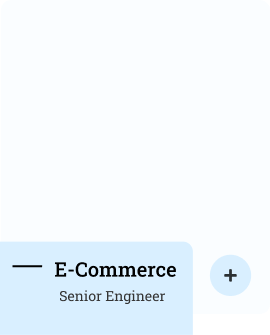
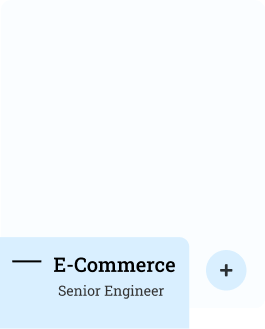
service part done

Changed region(s): [[0.2113, 0.7599, 0.6642, 0.9119]]

diff --git a/src/pages/Home.jsx b/src/pages/Home.jsx
@@ -7,7 +7,9 @@ import aboutImage from '../assets/about.png'
 import Flex from '../components/Flex'
 import Education from '../components/icons/Education'
 import {TiStarburst} from 'react-icons/ti'
-import {FaYoutube,FaFacebookF,FaInstagram,FaTwitter,FaLinkedinIn} from 'react-icons/fa'
+import {FaYoutube,FaFacebookF,FaInstagram,FaTwitter,FaLinkedinIn,FaReact,FaPlus} from 'react-icons/fa'
+import {AiOutlineHtml5} from 'react-icons/ai'
+import {DiJavascript1 } from 'react-icons/di'
 
 import project1 from '../assets/project1.png'
 import project2 from '../assets/project2.png'
@@ -16,7 +18,7 @@ import project4 from '../assets/project4.png'
 import project5 from '../assets/project5.png'
 import service1 from '../assets/service1.png'
 import contact1 from '../assets/contact1.png'
-import footer from '../assets/footerLogo.png'
+
 import List from '../components/List'
 
 export default function Home() {
@@ -25,9 +27,9 @@ export default function Home() {
    <Section>
     <div className='bg-banner h-screen bg-no-repeat bg-center bg-cover'>
       <Container>
-        <h2 className='text-text50 text-black font-pop font-semibold pt-32 pb-4 text-center'>HEY, I'M MOHAMMAD SAJIB KHAN</h2>
-        <p className='text-center mx-auto w-w725  text-lg text-black font-robo font-normal '>A Frontend focused Web Developer building the Frontend of Websites and Web Applications that leads to the success of the overall product</p>
-        <Button text="Download CV" className='flex mx-auto mt-8'/>
+        <h2 className='text-text50 text-black font-pop font-semibold pt-36 pb-4 text-center'>HEY, I'M MOHAMMAD SAJIB KHAN</h2>
+        <p className='text-center mx-auto w-w725 leading-8  text-lg text-black font-robo font-normal '>A Frontend focused Web Developer building the Frontend of Websites and Web Applications that leads to the success of the overall product</p>
+        <Button text="View Project " className='flex mx-auto mt-8'/>
       </Container>
     </div>
    </Section>
@@ -46,14 +48,14 @@ export default function Home() {
 
         <div className='w-1/2'>
         <Flex className=' justify-between'>
-        <div className='bg-four rounded-lg w-[270px] h-[150px]'>
+        <div className='bg-four rounded-lg drop-shadow-lg w-[270px] h-[150px]'>
         <Education  className="flex justify-center mx-auto pt-4 w-[20px] h-[20px]"/>
         <h3 className='text-black text-xl font-robo font-medium text-center pt-6'>Experience</h3>
         <p className='text-five text-base font-robo font-normal text-center pt-2'>2 + years</p>
         <p className='text-five text-base font-robo font-normal text-center '>Frontend Development</p>
        </div>
 
-        <div className='bg-four rounded-lg w-[270px] h-[150px]'>
+        <div className='bg-four rounded-lg drop-shadow-lg w-[270px] h-[150px]'>
         <Education  className="flex justify-center mx-auto pt-4 w-[20px] h-[20px]"/>
         <h3 className='text-black text-xl font-robo font-medium text-center pt-6'>Education</h3>
         <p className='text-five text-base font-robo font-normal text-center pt-2'>B.S.c  Bachelors Degree</p>
@@ -61,7 +63,7 @@ export default function Home() {
        </div>
         </Flex>
         <p className='text-black text-lg font-normal font-robo pt-10 pb-6'>I'm a Frontend Web Developer building the Front-end of Websites and Web Applications that leads to the success of the overall product. Check out some of my work in the Projects section.</p>
-        <Button text="Contact" className='px-12'/>
+        <Button text="Download CV" className='px-12'/>
         </div>
         
       </Flex>
@@ -78,7 +80,7 @@ export default function Home() {
       <p className='text-black text-lg font-normal font-robo text-center'>My technical level</p>
 
       <Flex className='justify-evenly'>
-        <div className='w-[430px] h-[280px] rounded-xl bg-four mt-16'>
+        <div className='w-[430px] h-[280px] rounded-xl drop-shadow-2xl bg-four mt-16'>
           <h4 className='pt-8 pb-8 text-center text-xl text-black font-robo font-normal'>Frontend developer</h4>
 
           <Flex className='flex-wrap '>
@@ -132,7 +134,7 @@ export default function Home() {
           </Flex>
 
         </div>
-        <div className='w-[430px] h-[280px] rounded-xl bg-four mt-16'>
+        <div className='w-[430px] h-[280px] rounded-xl drop-shadow-2xl bg-four mt-16'>
           <h4 className='pt-8 pb-8 text-center text-xl text-black font-robo font-normal'>Backend developer</h4>
 
           <Flex className='flex-wrap '>
@@ -227,19 +229,112 @@ export default function Home() {
    
 
 
-   <Section className='bg-third pt-14'>
+   <Section className='bg-third pt-14 pb-10'>
     <Container>
       <h2 className='text-text50 text-black font-medium font-robo text-center pb-3'>Services</h2>
-      <p className='w-w833 text-center mx-auto text-lg text-black font-robo font-normal pb-24'>Our consultants have years of experience on the in success. Through the provision of our services. Find the service we provide</p>
+      <p className='w-w833 text-center mx-auto text-lg text-black font-robo font-normal pb-20'>Our consultants have years of experience on the in success. Through the provision of our services. Find the service we provide</p>
       <Flex className='justify-between'>
-        <Image src={service1}/>
-        <Image src={service1}/>
-        <Image src={service1}/>
-        <Image src={service1}/>
+       
+      <div className=' group/div w-[265px] h-[310px] bg-four rounded-lg drop-shadow relative'>
+          <div className='group-hover/div:bg-seven w-[190px] h-[92px] bg-primary rounded-tr-lg absolute -bottom-[25px] left-0 '>
+          <Flex className='py-4 px-3 gap-x-3'>
+            <div className='group-hover/div:bg-white w-[30px] h-[2px] bg-black mt-3'></div>
+            <div>
+            <h4 className='group-hover/div:text-white text-xl text-black font-robo font-medium pb-1'>E-Commerce</h4>
+            <p className='group-hover/div:text-white text-sm text-black font-robo font-normal'>Development</p>
+          </div>
+          </Flex>
+          </div>
+          <div className='group/icon group-hover/div:bg-seven w-[40px] h-[40px] bg-primary rounded-full absolute right-5 bottom-5 flex justify-center items-center duration-500 z-10'>
+            <FaPlus className='text-sm group-hover/div:text-white group-hover/icon:rotate-[360deg] group-hover/icon:duration-500'/>
+            </div>
+          <div className='group/icon hover:bg-seven group-hover/div:bottom-20 w-[40px] h-[40px] bg-primary rounded-full absolute right-5 bottom-5 flex justify-center items-center  duration-500'>
+            <AiOutlineHtml5 className=' text-lg group-hover/icon:rotate-[360deg]  group-hover/icon:duration-500'/>
+          </div>
+          <div className='group/icon hover:bg-seven group-hover/div:bottom-[140px] w-[40px] h-[40px] bg-primary rounded-full absolute right-5 bottom-5 flex justify-center items-center  duration-500'>
+            <DiJavascript1 className='text-lg group-hover/icon:rotate-[360deg] group-hover/icon:duration-500'/>
+          </div>
+          <div className='group/icon hover:bg-seven group-hover/div:bottom-[200px] w-[40px] h-[40px] bg-primary rounded-full absolute right-5 bottom-5 flex justify-center items-center  duration-500'>
+            <FaReact className='text-lg  group-hover/icon:rotate-[360deg] group-hover/icon:duration-500'/>
+          </div>
+        </div>
+      <div className=' group/div w-[265px] h-[310px] bg-four rounded-lg drop-shadow relative'>
+          <div className='group-hover/div:bg-seven w-[190px] h-[92px] bg-primary rounded-tr-lg absolute -bottom-[25px] left-0 '>
+          <Flex className='py-4 px-3 gap-x-3'>
+            <div className='group-hover/div:bg-white w-[30px] h-[2px] bg-black mt-3'></div>
+            <div>
+            <h4 className='group-hover/div:text-white text-xl text-black font-robo font-medium pb-1'>Social Media</h4>
+            <p className='group-hover/div:text-white text-sm text-black font-robo font-normal'>Development</p>
+          </div>
+          </Flex>
+          </div>
+          <div className='group/icon group-hover/div:bg-seven w-[40px] h-[40px] bg-primary rounded-full absolute right-5 bottom-5 flex justify-center items-center duration-500 z-10'>
+            <FaPlus className='text-sm group-hover/div:text-white group-hover/icon:rotate-[360deg] group-hover/icon:duration-500'/>
+            </div>
+          <div className='group/icon hover:bg-seven group-hover/div:bottom-20 w-[40px] h-[40px] bg-primary rounded-full absolute right-5 bottom-5 flex justify-center items-center  duration-500'>
+            <AiOutlineHtml5 className=' text-lg group-hover/icon:rotate-[360deg]  group-hover/icon:duration-500'/>
+          </div>
+          <div className='group/icon hover:bg-seven group-hover/div:bottom-[140px] w-[40px] h-[40px] bg-primary rounded-full absolute right-5 bottom-5 flex justify-center items-center  duration-500'>
+            <DiJavascript1 className='text-lg group-hover/icon:rotate-[360deg] group-hover/icon:duration-500'/>
+          </div>
+          <div className='group/icon hover:bg-seven group-hover/div:bottom-[200px] w-[40px] h-[40px] bg-primary rounded-full absolute right-5 bottom-5 flex justify-center items-center  duration-500'>
+            <FaReact className='text-lg  group-hover/icon:rotate-[360deg] group-hover/icon:duration-500'/>
+          </div>
+        </div>
+      <div className=' group/div w-[265px] h-[310px] bg-four rounded-lg drop-shadow relative'>
+          <div className='group-hover/div:bg-seven w-[190px] h-[92px] bg-primary rounded-tr-lg absolute -bottom-[25px] left-0 '>
+          <Flex className='py-4 px-3 gap-x-3'>
+            <div className='group-hover/div:bg-white w-[30px] h-[2px] bg-black mt-3'></div>
+            <div>
+            <h4 className='group-hover/div:text-white text-xl text-black font-robo font-medium pb-1'>Corporate</h4>
+            <p className='group-hover/div:text-white text-sm text-black font-robo font-normal'>Development</p>
+          </div>
+          </Flex>
+          </div>
+          <div className='group/icon group-hover/div:bg-seven w-[40px] h-[40px] bg-primary rounded-full absolute right-5 bottom-5 flex justify-center items-center duration-500 z-10'>
+            <FaPlus className='text-sm group-hover/div:text-white group-hover/icon:rotate-[360deg] group-hover/icon:duration-500'/>
+            </div>
+          <div className='group/icon hover:bg-seven group-hover/div:bottom-20 w-[40px] h-[40px] bg-primary rounded-full absolute right-5 bottom-5 flex justify-center items-center  duration-500'>
+            <AiOutlineHtml5 className=' text-lg group-hover/icon:rotate-[360deg]  group-hover/icon:duration-500'/>
+          </div>
+          <div className='group/icon hover:bg-seven group-hover/div:bottom-[140px] w-[40px] h-[40px] bg-primary rounded-full absolute right-5 bottom-5 flex justify-center items-center  duration-500'>
+            <DiJavascript1 className='text-lg group-hover/icon:rotate-[360deg] group-hover/icon:duration-500'/>
+          </div>
+          <div className='group/icon hover:bg-seven group-hover/div:bottom-[200px] w-[40px] h-[40px] bg-primary rounded-full absolute right-5 bottom-5 flex justify-center items-center  duration-500'>
+            <FaReact className='text-lg  group-hover/icon:rotate-[360deg] group-hover/icon:duration-500'/>
+          </div>
+        </div>
+      <div className=' group/div w-[265px] h-[310px] bg-four rounded-lg drop-shadow relative'>
+          <div className='group-hover/div:bg-seven w-[190px] h-[92px] bg-primary rounded-tr-lg absolute -bottom-[25px] left-0 '>
+          <Flex className='py-4 px-3 gap-x-3'>
+            <div className='group-hover/div:bg-white w-[30px] h-[2px] bg-black mt-3'></div>
+            <div>
+            <h4 className='group-hover/div:text-white text-xl text-black font-robo font-medium pb-1'>Personal  </h4>
+            <p className='group-hover/div:text-white text-sm text-black font-robo font-normal'>Development</p>
+          </div>
+          </Flex>
+          </div>
+          <div className='group/icon group-hover/div:bg-seven w-[40px] h-[40px] bg-primary rounded-full absolute right-5 bottom-5 flex justify-center items-center duration-500 z-10'>
+            <FaPlus className='text-sm group-hover/div:text-white group-hover/icon:rotate-[360deg] group-hover/icon:duration-500'/>
+            </div>
+          <div className='group/icon hover:bg-seven group-hover/div:bottom-20 w-[40px] h-[40px] bg-primary rounded-full absolute right-5 bottom-5 flex justify-center items-center  duration-500'>
+            <AiOutlineHtml5 className=' text-lg group-hover/icon:rotate-[360deg]  group-hover/icon:duration-500'/>
+          </div>
+          <div className='group/icon hover:bg-seven group-hover/div:bottom-[140px] w-[40px] h-[40px] bg-primary rounded-full absolute right-5 bottom-5 flex justify-center items-center  duration-500'>
+            <DiJavascript1 className='text-lg group-hover/icon:rotate-[360deg] group-hover/icon:duration-500'/>
+          </div>
+          <div className='group/icon hover:bg-seven group-hover/div:bottom-[200px] w-[40px] h-[40px] bg-primary rounded-full absolute right-5 bottom-5 flex justify-center items-center  duration-500'>
+            <FaReact className='text-lg  group-hover/icon:rotate-[360deg] group-hover/icon:duration-500'/>
+          </div>
+        </div>
+     
+       
       </Flex>
     </Container>
 
    </Section>
+
+
 
    <Section className='bg-third py-24'>
     <Container>
@@ -247,66 +342,37 @@ export default function Home() {
       <p className='w-w680 text-center mx-auto text-lg text-black font-robo font-normal pb-14'>Feel free to Contact me by submitting the form below and I will get back to you as soon as possible</p>
       <Flex className='justify-between'>
         <h3 className='w-w412 text-black text-text45 font-medium font-robo pb-3 text-center pt-12'>Find clients easily on LinkedIn without any technical skills</h3>
-        <Image src={contact1} />
+        <div className='w-[570px] h-[470px] bg-four rounded-2xl border-white border-2  '>
+         <div className='py-10 px-14'>
+         <form action="">
+            <div>
+            <label htmlFor="name" className='text-lg text-five font-medium font-robo pb-1.5 block'>Name: </label>
+            <input id="name" type="text" className='w-full bg-third rounded placeholder:text-six placeholder:text-base placeholder:font-robo placeholder:font-normal py-2 px-6 mb-3' placeholder='Enter Your Name:'/>
+            </div>
+            <div>
+            <label htmlFor="email" className='text-lg text-five font-medium font-robo pb-1.5 block'>Email: </label>
+            <input id="email" type="text" className='w-full bg-third rounded placeholder:text-six placeholder:text-base placeholder:font-robo placeholder:font-normal py-2 px-6 mb-3' placeholder='Enter Your Email:'/>
+            </div>
+            <div>
+            <label htmlFor="message" className='text-lg text-five font-medium font-robo pb-1.5 block'>Messages: </label>
+            <textarea id="message" type="text" className='w-full h-[110px] bg-third rounded placeholder:text-six placeholder:text-base placeholder:font-robo placeholder:font-normal py-2 px-6 mb-3' placeholder='Enter Your Messages:'/>
+            </div>
+            <Button text="Message" className='flex mx-auto mt-2 py-2' />
+            
+          </form>
+         </div>
+         
+        </div>
+        
         
       </Flex>
     </Container>
 
    </Section>
+   
 
 
-   <Section className='bg-black pt-20'>
-    <Container>
-      <Flex className='justify-between'>
-        <div className='w-6/12'>
-          <Flex className='gap-x-5 items-center pb-28'>
-            <Image src={footer}/>
-            <h4 className='text-4xl text-white font-robo font-semibold'>SAJIB KHAN</h4>
-          </Flex>
-          <Flex className='gap-x-4 pl-16'>
-            <FaYoutube className='text-white text-2xl'/>
-            <FaFacebookF className='text-white text-2xl'/>
-            <FaInstagram className='text-white text-2xl'/>
-            <FaTwitter className='text-white text-2xl'/>
-            <FaLinkedinIn className='text-white text-2xl'/>
-          </Flex>
-
-        </div>
-        <div className='w-2/12'>
-          <h6 className='text-base text-white font-robo font-semibold pb-9'>TOP FEATURES</h6>
-         <ul className='flex flex-col gap-y-2'>
-         <List className='text-sm text-white font-normal font-robo' text='Cold Email' />
-          <List className='text-sm text-white font-normal font-robo' text='Pricing' />
-          <List className='text-sm text-white font-normal font-robo' text='Emial code' />
-          <List className='text-sm text-white font-normal font-robo' text='LinkedIn' />
-          <List className='text-sm text-white font-normal font-robo' text='How it works?' />
-         </ul>
-        </div>
-        <div className='w-2/12'>
-          <h6 className='text-base text-white font-robo font-semibold pb-9'>PRODUCT</h6>
-         <ul className='flex flex-col gap-y-2'>
-         <List className='text-sm text-white font-normal font-robo' text='Restriction' />
-          <List className='text-sm text-white font-normal font-robo' text='Bypass' />
-          <List className='text-sm text-white font-normal font-robo' text='Ambassador' />
-          <List className='text-sm text-white font-normal font-robo' text='Team Plan' />/>
-         </ul>
-        </div>
-        
-        <div className='w-2/12'>
-          <h6 className='text-base text-white font-robo font-semibold pb-9'>ABOUT US</h6>
-         <ul className='flex flex-col gap-y-2'>
-         <List className='text-sm text-white font-normal font-robo' text='ABOUT US' />
-          <List className='text-sm text-white font-normal font-robo' text='Contact us' />
-          <List className='text-sm text-white font-normal font-robo' text='Emial code' />
-          <List className='text-sm text-white font-normal font-robo' text='Legal Notices' />
-         </ul>
-        </div>
-        
-      </Flex>
-      <p className='text-center text-sm text-white font-pop font-normal py-24'>Copyright 2023 Waapi, all rights reserved.</p>
-    </Container>
-   </Section>
-
+   
    
   </>
   )

diff --git a/src/layouts/Footer.jsx b/src/layouts/Footer.jsx
@@ -1,7 +1,64 @@
 import React from 'react'
+import Section from '../components/Section'
+import Container from '../components/Container'
+import Flex from '../components/Flex'
+import { FaYoutube,FaFacebookF,FaInstagram,FaTwitter,FaLinkedinIn } from 'react-icons/fa'
+import List from '../components/List'
+import footer from '../assets/footerLogo.png'
+import Image from '../components/Image'
 
 export default function Footer() {
   return (
-    <div>Footer</div>
+    <Section className='bg-black pt-20'>
+    <Container>
+      <Flex className='justify-between'>
+        <div className='w-6/12'>
+          <Flex className='gap-x-5 items-center pb-24'>
+            <Image src={footer}/>
+            <h4 className='text-4xl text-white font-robo font-semibold'>SAJIB KHAN</h4>
+          </Flex>
+          <Flex className='gap-x-4 pl-14'>
+            <FaLinkedinIn className='text-white text-3xl'/>
+            <FaFacebookF className='text-white text-3xl'/>
+            <FaTwitter className='text-white text-3xl'/>
+            <FaInstagram className='text-white text-3xl'/>
+            <FaYoutube className='text-white text-3xl'/>
+          </Flex>
+
+        </div>
+        <div className='w-2/12'>
+          <h6 className='text-base text-white font-robo font-semibold pb-9'>TOP FEATURES</h6>
+         <ul className='flex flex-col gap-y-2'>
+          <List className='text-sm text-white font-normal font-robo' text='E-Commerce' />
+          <List className='text-sm text-white font-normal font-robo' text='Corporate' />
+          <List className='text-sm text-white font-normal font-robo' text='Personal' />
+          <List className='text-sm text-white font-normal font-robo' text='Social Media' />
+         <List className='text-sm text-white font-normal font-robo' text='Chating Application' />
+         </ul>
+        </div>
+        <div className='w-2/12'>
+          <h6 className='text-base text-white font-robo font-semibold pb-9'>PRODUCT</h6>
+         <ul className='flex flex-col gap-y-2'>
+         <List className='text-sm text-white font-normal font-robo' text='Orebi' />
+          <List className='text-sm text-white font-normal font-robo' text='TolksME' />
+          <List className='text-sm text-white font-normal font-robo' text='Avada' />
+          <List className='text-sm text-white font-normal font-robo' text='Innovate' />
+         </ul>
+        </div>
+        
+        <div className='w-2/12'>
+          <h6 className='text-base text-white font-robo font-semibold pb-9'>ABOUT US</h6>
+         <ul className='flex flex-col gap-y-2 '>
+         <List className='text-sm text-white font-normal font-robo' text='About us' />
+          <List className='text-sm text-white font-normal font-robo' text='Contact us' />
+          <List className='text-sm text-white font-normal font-robo' text='Our Services' />
+         </ul>
+        </div>
+        
+      </Flex>
+      <p className='text-center text-sm text-white font-pop font-normal py-24'>Copyright 2023. Made by <u><span className='font-semibold underline-offset-1'>SAJIB KHAN</span></u></p>
+    </Container>
+   </Section>
+
   )
 }

diff --git a/tailwind.config.js b/tailwind.config.js
@@ -19,10 +19,12 @@ export default {
       },
       colors: {
         'primary': '#D3EBFF',
-        'secondary': '#315AE7',
+        'secondary': '#3b82f6',
         'third': '#E7F5FF',
         'four': '#FAFDFF',
         'five': '#333333',
+        'six': '#4D4D4D',
+        'seven': '#93c5fd',
       },
       fontSize:{
         text28:"28px",
@@ -36,6 +38,9 @@ export default {
       },
       backgroundImage: {
         'banner': "url('src/assets/banner.png')",
+      },
+      rotate: {
+        'sajib360': '360deg',
       }
       
     },

diff --git a/src/components/Button.jsx b/src/components/Button.jsx
@@ -2,6 +2,6 @@ import React from 'react'
 
 export default function Button({text,className}) {
   return (
-    <button className={`text-white text-xl font-bold font-robo py-4  px-8 bg-secondary rounded ${className}`}>{text}</button>
+    <button className={`text-white text-xl font-bold font-robo py-4  px-9 bg-secondary rounded ${className}`}>{text}</button>
   )
 }
